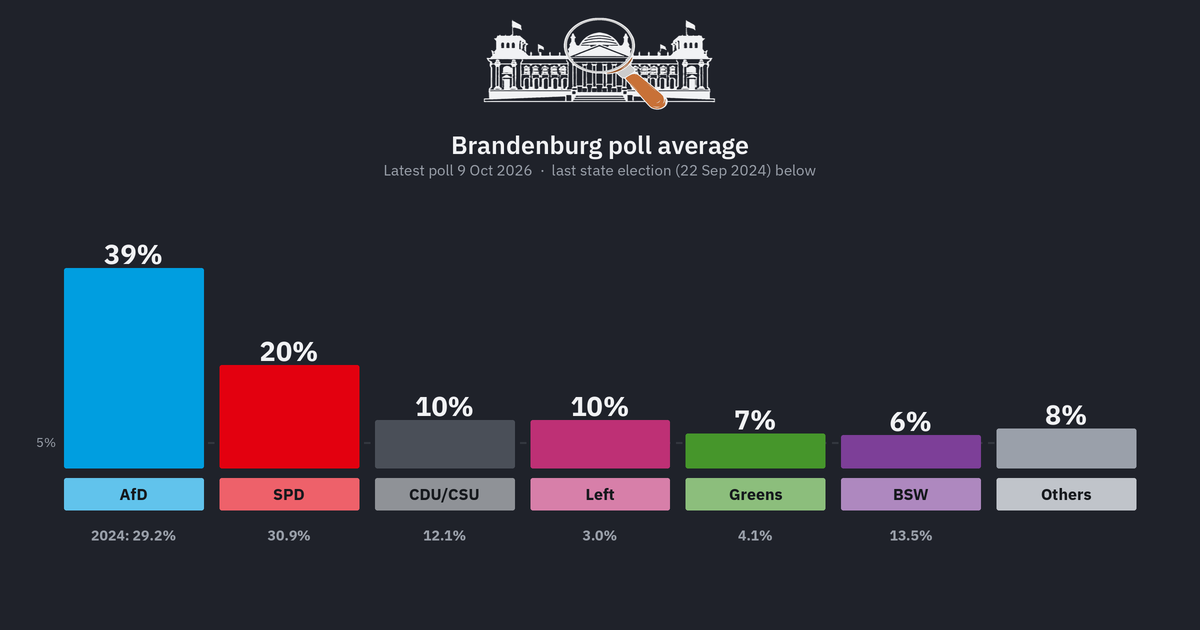
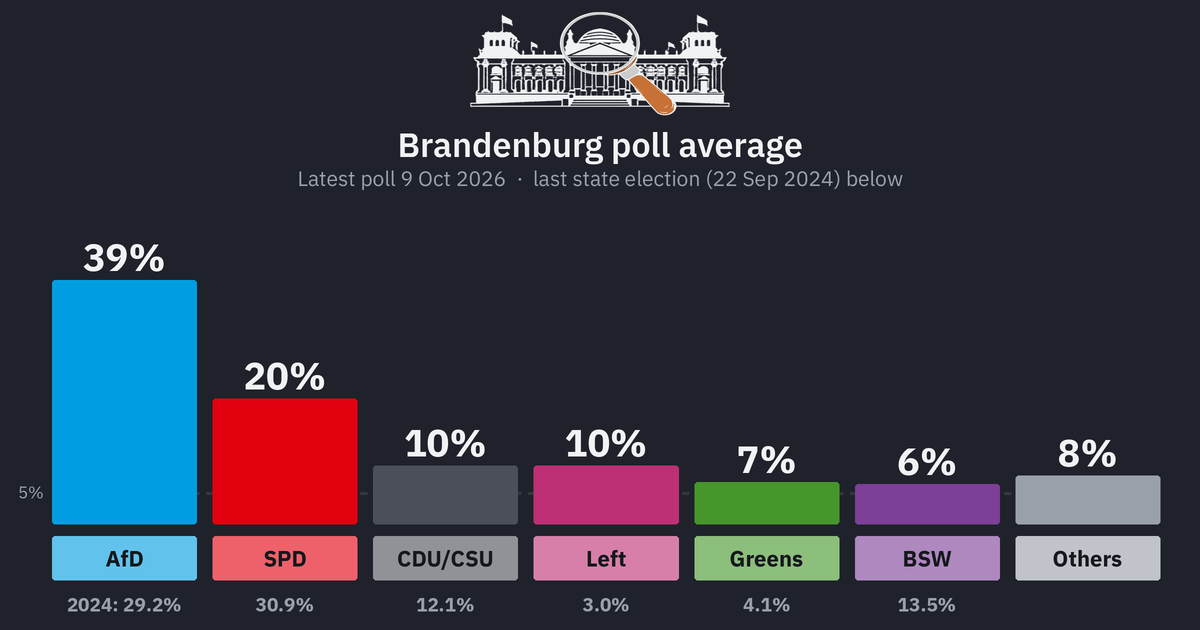
working embeds fixed!!!

Changed region(s): [[0.0308, 0.3619, 0.9867, 0.9952], [0.2467, 0.2111, 0.7708, 0.3016], [0.37, 0.0, 0.6167, 0.181]]

diff --git a/py/make_og.py b/py/make_og.py
@@ -103,11 +103,11 @@ class Card:
     def __init__(self, title, sub):
         self.img = Image.new("RGB", (W * S, H * S), BG); self.d = ImageDraw.Draw(self.img)
         logo = Image.open(os.path.join(HERE, "img", "logo-dark.png")).convert("RGBA")
-        lh = 96; lw = round(logo.width * lh / logo.height)
+        lh = 108; lw = round(logo.width * lh / logo.height)
         logo = logo.resize((lw * S, lh * S), Image.LANCZOS)
-        self.img.paste(logo, ((W - lw) // 2 * S, 16 * S), logo)
-        self.text(W / 2, 128, title, 600, 25, INK, "ma")
-        self.text(W / 2, 160, sub, 400, 15, MUT, "ma")
+        self.img.paste(logo, ((W - lw) // 2 * S, 10 * S), logo)
+        self.text(W / 2, 122, title, 600, 34, INK, "ma")
+        self.text(W / 2, 164, sub, 400, 21, MUT, "ma")
     def text(self, x, y, t, w, s, fill, anchor="la"):
         self.d.text((x * S, y * S), t, font=_font(w, s), fill=fill, anchor=anchor)
     def width(self, t, w, s): return self.d.textlength(t, font=_font(w, s)) / S
@@ -131,61 +131,62 @@ class Card:
         os.makedirs(os.path.dirname(path), exist_ok=True)
         self.img.resize((W, H), Image.LANCZOS).save(path, optimize=True)
 
-def draw_bars(card, items, vfmt=lambda v: "%d%%" % round(v), foot_dy=72):
+def draw_bars(card, items, vfmt=lambda v: "%d%%" % round(v), foot_dy=88, base=508):
     """items: dict(name, color(hex), v, [prev], [gov], [foot]).  Same bar chart as the home page of the site."""
-    left, right, gap, base, maxh = 64, 64, 16, 468, 200
+    left, right, gap = 52, 40, 16
+    maxh = base - 280
     n = len(items); bw = (W - left - right - (n - 1) * gap) / n
     scale = maxh / max(10, *(it["v"] for it in items))
     y5 = base - 5 * scale
-    for x in range(left, W - right, 12):
-        card.line([(x, y5), (min(x + 6, W - right), y5)], LINE, 2)
-    card.text(left - 8, y5 - 9, "5%", 500, 13, MUT, "ra")
+    for x in range(left, W - right, 14):
+        card.line([(x, y5), (min(x + 7, W - right), y5)], LINE, 3)
+    card.text(left - 8, y5 - 12, "5%", 500, 17, MUT, "ra")
     for i, it in enumerate(items):
         x = left + i * (bw + gap); cx = x + bw / 2; v = it["v"]; h = max(2, v * scale); top = base - h
         c = bar_color(it["color"])
-        card.rrect(x, top, x + bw, base, 2, c)
+        card.rrect(x, top, x + bw, base, 3, c)
         has_d = it.get("prev") is not None
-        card.text(cx, top - (54 if has_d else 32), vfmt(v), 700, 27, INK, "ma")
+        card.text(cx, top - (76 if has_d else 48), vfmt(v), 700, 38, INK, "ma")
         if has_d:
             dv = v - it["prev"]; flat = abs(dv) < .05
             s = "(=)" if flat else "(%s%.1f)" % ("+" if dv > 0 else "\u2212", abs(dv))
-            card.text(cx, top - 22, s, 600, 17, INK if flat else (OK if dv > 0 else ERR), "ma")
+            card.text(cx, top - 34, s, 600, 24, INK if flat else (OK if dv > 0 else ERR), "ma")
         tint = lighten(c, .38)
-        card.rrect(x, base + 10, x + bw, base + 42, 2, tint)
-        name = it["name"]; fs = 16
-        while card.width(name, 700, fs) > bw - 10 and fs > 10: fs -= 1
+        card.rrect(x, base + 12, x + bw, base + 56, 3, tint)
+        name = it["name"]; fs = 22
+        while card.width(name, 700, fs) > bw - 10 and fs > 11: fs -= 1
         if card.width(name, 700, fs) > bw - 10:
             while len(name) > 1 and card.width(name + "\u2026", 700, fs) > bw - 10: name = name[:-1]
             name += "\u2026"
-        card.text(cx, base + 26, name, 700, fs, (21, 24, 28) if lum(tint) >= 140 else (255, 255, 255), "mm")
-        if it.get("gov"): card.text(cx, base + 50, "Gov't", 600, 14, ERR, "ma")
-        if it.get("foot"): card.text(cx, base + foot_dy, it["foot"], 700, 14, MUT, "ma")
+        card.text(cx, base + 34, name, 700, fs, (21, 24, 28) if lum(tint) >= 140 else (255, 255, 255), "mm")
+        if it.get("gov"): card.text(cx, base + 62, "Gov't", 600, 19, ERR, "ma")
+        if it.get("foot"): card.text(cx, base + foot_dy, it["foot"], 700, 19, MUT, "ma")
 
-def line_panel(card, box, series, t0, t1, ymin, ymax, step, lab_w, month_step=2, ylab_w=44):
+def line_panel(card, box, series, t0, t1, ymin, ymax, step, lab_w, month_step=2, ylab_w=48):
     """Smoothed trend lines.  series: dict(label, color(hex), pts[(date, value|None)]).  box = (x0, y0, x1, y1) incl. axis labels."""
-    x0, y0, x1, y1 = box; L = x0 + ylab_w; R = x1 - lab_w; B = y1 - 26; T = y0
+    x0, y0, x1, y1 = box; L = x0 + ylab_w; R = x1 - lab_w; B = y1 - 32; T = y0
     X = lambda t: L + (t - t0).days / max(1, (t1 - t0).days) * (R - L)
     Y = lambda v: B - (v - ymin) / (ymax - ymin) * (B - T)
     v = ymin
     while v <= ymax + 1e-9:
-        card.line([(L, Y(v)), (R, Y(v))], LINE, 1)
-        card.text(L - 8, Y(v) - 8, "%d%%" % v, 400, 13, MUT, "ra"); v += step
+        card.line([(L, Y(v)), (R, Y(v))], LINE, 2)
+        card.text(L - 8, Y(v) - 11, "%d%%" % v, 400, 17, MUT, "ra"); v += step
     d = date(t0.year, t0.month, 1)   # month ticks
     while d <= t1:
         if d >= t0 and (d.month - 1) % month_step == 0:
-            card.text(X(d), B + 8, MON[d.month - 1], 400, 12, MUT, "ma")
+            card.text(X(d), B + 8, MON[d.month - 1], 400, 16, MUT, "ma")
         d = date(d.year + (d.month == 12), d.month % 12 + 1, 1)
     ends = []
     for s in series:
         pts = [(X(t), Y(v)) for t, v in s["pts"] if v is not None]
         if len(pts) < 2: continue
-        col = line_color(s["color"]); card.line(pts, col, 3.5)
+        col = line_color(s["color"]); card.line(pts, col, 5)
         ends.append([pts[-1][1], s, col, [v for _, v in s["pts"] if v is not None][-1]])
     ends.sort(key=lambda e: e[0])
     for i in range(1, len(ends)):   # keep the end labels apart
-        if ends[i][0] - ends[i - 1][0] < 19: ends[i][0] = ends[i - 1][0] + 19
+        if ends[i][0] - ends[i - 1][0] < 24: ends[i][0] = ends[i - 1][0] + 24
     for y, s, col, val in ends:
-        card.text(R + 10, y - 9, "%s %d%%" % (s["label"], round(val)), 700, 15, col)
+        card.text(R + 10, y - 12, "%s %d%%" % (s["label"], round(val)), 700, 18, col)
 
 # ---------------------------------------------------------------- hemicycle (port of layoutSeats() in js/app.js)
 def sainte_lague(pct, seats):
@@ -242,8 +243,8 @@ def card_polls(cfg, polls, parties):
                    pts=[(t0 + timedelta(days=round(days * k / 100)), smoothed(polls, p, t0 + timedelta(days=round(days * k / 100)), bw)) for k in range(101)]) for p in ps]
     top = max(v for s in series for _, v in s["pts"] if v is not None)
     c = Card("Election polls & approval", "Federal voting intention, last 12 months  \u00b7  latest %s" % t_max.strftime("%d %b %Y").lstrip("0"))
-    c.text(64, 204, "Poll average", 700, 15, MUT)
-    line_panel(c, (64, 226, 770, 598), series, t0, t_max, 0, math.ceil(top / 5) * 5, 5, lab_w=104)
+    c.text(24, 204, "Poll average", 700, 21, MUT)
+    line_panel(c, (24, 238, 612, 622), series, t0, t_max, 0, math.ceil(top / 5) * 5, 5, lab_w=122)
     # government approval (right)
     try:
         with open(os.path.join(HERE, cfg.get("approvalCsv", "data/government_approval.csv")), encoding="utf-8-sig", newline="") as f:
@@ -272,8 +273,8 @@ def card_polls(cfg, polls, parties):
             if x["label"] in ("Approve", "Disapprove"): x["label"] = "Gov. " + x["label"].lower()
         vals = [v for s in ser for _, v in s["pts"] if v is not None]
         lo, hi = math.floor(min(vals) / 10) * 10, math.ceil(max(vals) / 10) * 10
-        c.text(810, 204, "Government & chancellor approval", 700, 15, MUT)
-        line_panel(c, (810, 226, 1170, 598), ser, a0, a_max, lo, hi, 10, lab_w=150, month_step=4, ylab_w=40)
+        c.text(628, 204, "Government & chancellor approval", 700, 21, MUT)
+        line_panel(c, (628, 238, 1190, 622), ser, a0, a_max, lo, hi, 10, lab_w=216, month_step=4)
     except Exception as e:
         print("  (approval panel skipped: %s)" % e)
     return c, t_max
@@ -290,7 +291,7 @@ def seat_model(cfg, polls, parties, at=None):
 def card_parliament(cfg, polls, parties):
     t_max = polls[-1][0]; order, pct, seats, N = seat_model(cfg, polls, parties); maj = N // 2 + 1; labels = cfg.get("labels", {})
     c = Card("Bundestag projection", "Seats based on the poll average of %s" % t_max.strftime("%d %b %Y").lstrip("0"))
-    cx, cy, r_out, r_in = W / 2, 466, 258, 140
+    cx, cy, r_out, r_in = W / 2, 498, 294, 158
     rows, slots, dot = layout_seats(N, cx, cy, r_in, r_out)
     owner = [p for p in order for _ in range(seats[p])]
     for i, s in enumerate(slots):
@@ -307,15 +308,15 @@ def card_parliament(cfg, polls, parties):
     ang = lambda p: math.atan2(cy - p[1], p[0] - cx)
     ext = lambda r, p: (cx + r * math.cos(ang(p)), cy - r * math.sin(ang(p)))
     full = [ext(r_in - 14, bp[0]), *bp, ext(r_out + 14, bp[-1])]
-    c.line(full, BG, 5.5); c.dashed(full, INK, 2.6, 5, 4)
-    c.text(cx, cy - 78, str(N), 700, 42, INK, "ma"); c.text(cx, cy - 26, "Seats", 400, 15, MUT, "ma")
-    c.text(cx, cy + 2, "%d needed for majority" % maj, 700, 13, MUT, "ma")
-    act = [p for p in order if seats[p] > 0]; gp = 10
-    ws = [max(64, c.width(labels.get(p, p), 700, 15) + 26) for p in act]; x = cx - (sum(ws) + gp * (len(act) - 1)) / 2
+    c.line(full, BG, 8); c.dashed(full, INK, 4, 8, 6)
+    c.text(cx, cy - 124, str(N), 700, 58, INK, "ma"); c.text(cx, cy - 62, "Seats", 400, 22, MUT, "ma")
+    c.text(cx, cy - 30, "%d needed for majority" % maj, 700, 18, MUT, "ma")
+    act = [p for p in order if seats[p] > 0]; gp = 12
+    ws = [max(80, c.width(labels.get(p, p), 700, 22) + 34) for p in act]; x = cx - (sum(ws) + gp * (len(act) - 1)) / 2
     for p, w in zip(act, ws):
-        col = bar_color(party_color(cfg, p)); c.rrect(x, cy + 36, x + w, cy + 70, 6, col)
-        c.text(x + w / 2, cy + 53, labels.get(p, p), 700, 15, (21, 24, 28) if lum(col) >= 140 else (255, 255, 255), "mm")
-        c.text(x + w / 2, cy + 78, str(seats[p]), 700, 20, INK, "ma"); x += w + gp
+        col = bar_color(party_color(cfg, p)); c.rrect(x, cy + 30, x + w, cy + 76, 8, col)
+        c.text(x + w / 2, cy + 53, labels.get(p, p), 700, 22, (21, 24, 28) if lum(col) >= 140 else (255, 255, 255), "mm")
+        c.text(x + w / 2, cy + 82, str(seats[p]), 700, 30, INK, "ma"); x += w + gp
     return c, t_max
 
 def project_constituencies(cfg, polls, parties):
@@ -351,11 +352,11 @@ def card_constituencies(cfg, polls, parties):
     g = json.load(open(os.path.join(HERE, "data", "wahlkreise.geojson"), encoding="utf-8"))
     pts = [p for f in g["features"] for poly in f["geometry"]["coordinates"] for ring in poly for p in ring]
     lo0, lo1 = min(p[0] for p in pts), max(p[0] for p in pts); la0, la1 = min(p[1] for p in pts), max(p[1] for p in pts)
-    kx = math.cos(math.radians((la0 + la1) / 2)); mh = 396; sc = mh / (la1 - la0); mw = (lo1 - lo0) * kx * sc
+    kx = math.cos(math.radians((la0 + la1) / 2)); mh = 420; sc = mh / (la1 - la0); mw = (lo1 - lo0) * kx * sc
     counts = {}
     for p in lead.values(): counts[p] = counts.get(p, 0) + 1
-    rows = sorted(counts.items(), key=lambda kv: -kv[1]); lw = 330; gap = 90
-    mx = (W - (mw + gap + lw)) / 2; my = 196
+    rows = sorted(counts.items(), key=lambda kv: -kv[1]); lw = 430; gap = 70
+    mx = (W - (mw + gap + lw)) / 2; my = 200
     c = Card("Battleground map", "Who leads in each of the %d constituencies  \u00b7  poll average of %s" % (len(lead), t_max.strftime("%d %b %Y").lstrip("0")))
     pr = lambda p: ((mx + (p[0] - lo0) * kx * sc) * S, (my + (la1 - p[1]) * sc) * S)
     for ft in g["features"]:
@@ -363,11 +364,11 @@ def card_constituencies(cfg, polls, parties):
         for poly in ft["geometry"]["coordinates"]:
             c.d.polygon([pr(p) for p in poly[0]], fill=col, outline=BG, width=S)
             for hole in poly[1:]: c.d.polygon([pr(p) for p in hole], fill=BG)
-    lx = mx + mw + gap; ly = my + (mh - 44 * len(rows)) / 2
+    rh = min(68, mh / len(rows)); lx = mx + mw + gap; ly = my + (mh - rh * len(rows)) / 2
     for i, (p, n) in enumerate(rows):
-        y = ly + i * 44; col = bar_color(party_color(cfg, p))
-        c.rrect(lx, y + 4, lx + 28, y + 32, 4, col)
-        c.text(lx + 44, y + 18, labels.get(p, p), 700, 22, INK, "lm"); c.text(lx + lw, y + 18, str(n), 700, 30, INK, "rm")
+        y = ly + i * rh; col = bar_color(party_color(cfg, p)); cy_ = y + rh / 2
+        c.rrect(lx, cy_ - 20, lx + 40, cy_ + 20, 6, col)
+        c.text(lx + 60, cy_, labels.get(p, p), 700, 34, INK, "lm"); c.text(lx + lw, cy_, str(n), 700, 46, INK, "rm")
     return c, t_max
 
 def card_election(cfg):
@@ -383,7 +384,7 @@ def card_election(cfg):
     def vf(v):  # one decimal; BSW (4.98) must not read as 5.0 = "above the threshold"
         t = "%.1f" % v
         return ("%.2f" % v if v < 5 <= float(t) else t) + "%"
-    draw_bars(c, items, vfmt=vf, foot_dy=58)
+    draw_bars(c, items, vfmt=vf, foot_dy=68, base=524)
     return c, date.fromisoformat(d)
 
 def card_state(cfg, sid, slug, en, results):
@@ -406,7 +407,7 @@ def card_state(cfg, sid, slug, en, results):
     sub = "Latest poll %s" % t.strftime("%d %b %Y").lstrip("0")
     if last: sub += "  \u00b7  last state election (%s) below" % date.fromisoformat(last).strftime("%d %b %Y").lstrip("0")
     c = Card("%s poll average" % en, sub)
-    draw_bars(c, items, foot_dy=58)
+    draw_bars(c, items, foot_dy=68, base=524)
     return c, t
 
 # ---------------------------------------------------------------- main
